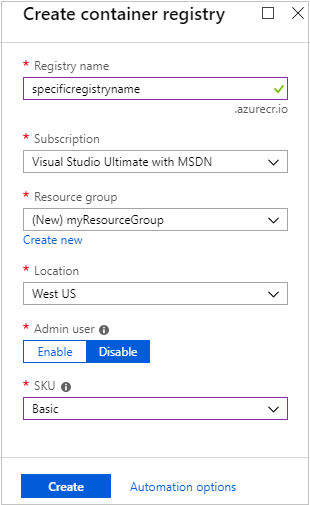
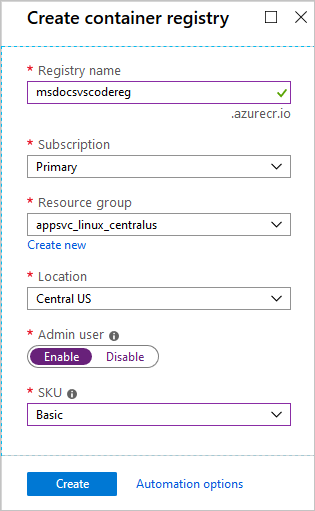
Tweak registry login

diff --git a/javascript/tutorial-vscode-docker-node-02.md b/javascript/tutorial-vscode-docker-node-02.md
@@ -30,10 +30,10 @@ This tutorial uses the [Azure Container Registry](https://azure.microsoft.com/en
     - Select your subscription in **Subscription**.
     - **Resource group** needs to be unique only within your subscription.
     - In location, **Location**, selecting a region close to you.
-    - Leave **Admin user** as **Enable**.
+    - Set **Admin user** as **Enable**.
     - Select **Basic** for **SKU**.
 
-    ![Values for the container registry form](media/deploy-containers/portal-03.png)
+    ![Values for the container registry form](media/deploy-containers/portal-02.png)
 
 1. Select **Create** to create the registry.
 
@@ -41,9 +41,9 @@ This tutorial uses the [Azure Container Registry](https://azure.microsoft.com/en
 
     ![Opening the newly created registry resource](media/deploy-containers/portal-03.png)
 
-1. On the registry page, select **Access Keys**, then under **Admin User** select **Enable**.
+1. On the registry page, select **Access Keys** and note the admin credentials:
 
-    ![Enabling the admin user on the Azure portalt](media/deploy-containers/portal-04.png)
+    ![Registry credentials for the registry on the Azure portal](media/deploy-containers/portal-04.png)
 
 1. At a command prompt or terminal, log in to Docker using the command below, replacing `<registry_name>` with the name of your registry, and `<username>` and `<password>` from with the values shown in the Azure portal for the admin user:
 
